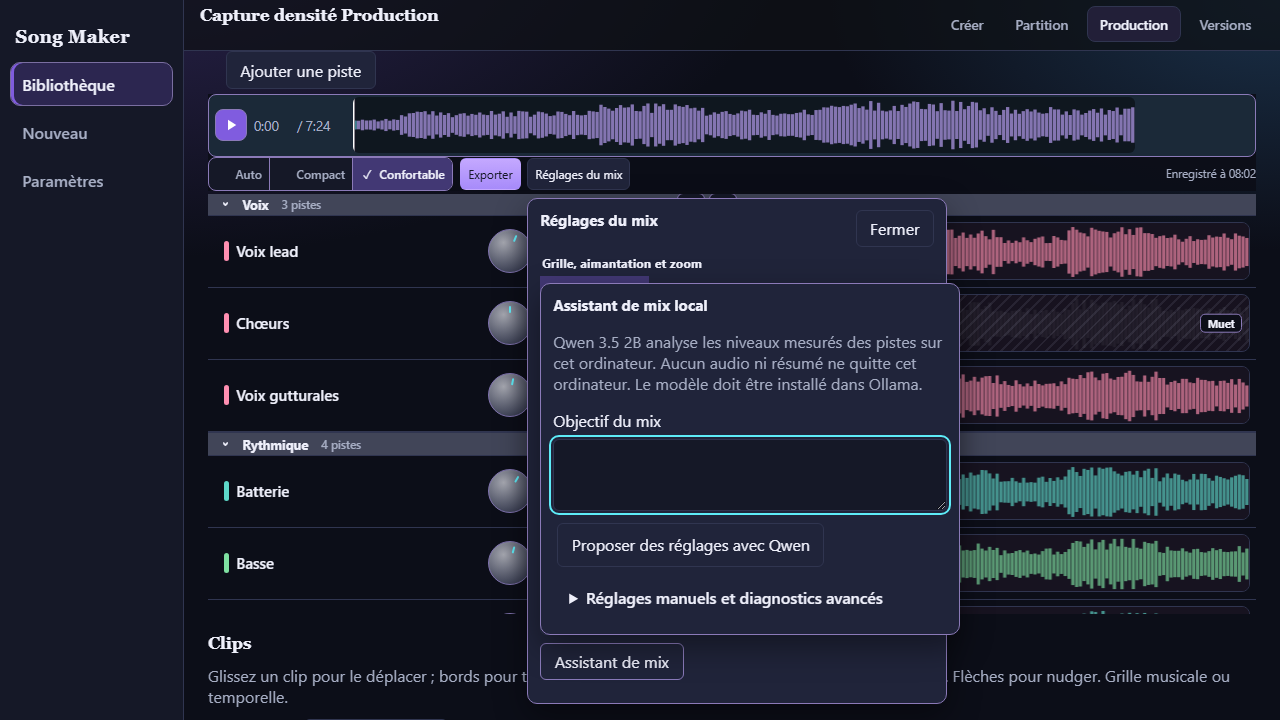
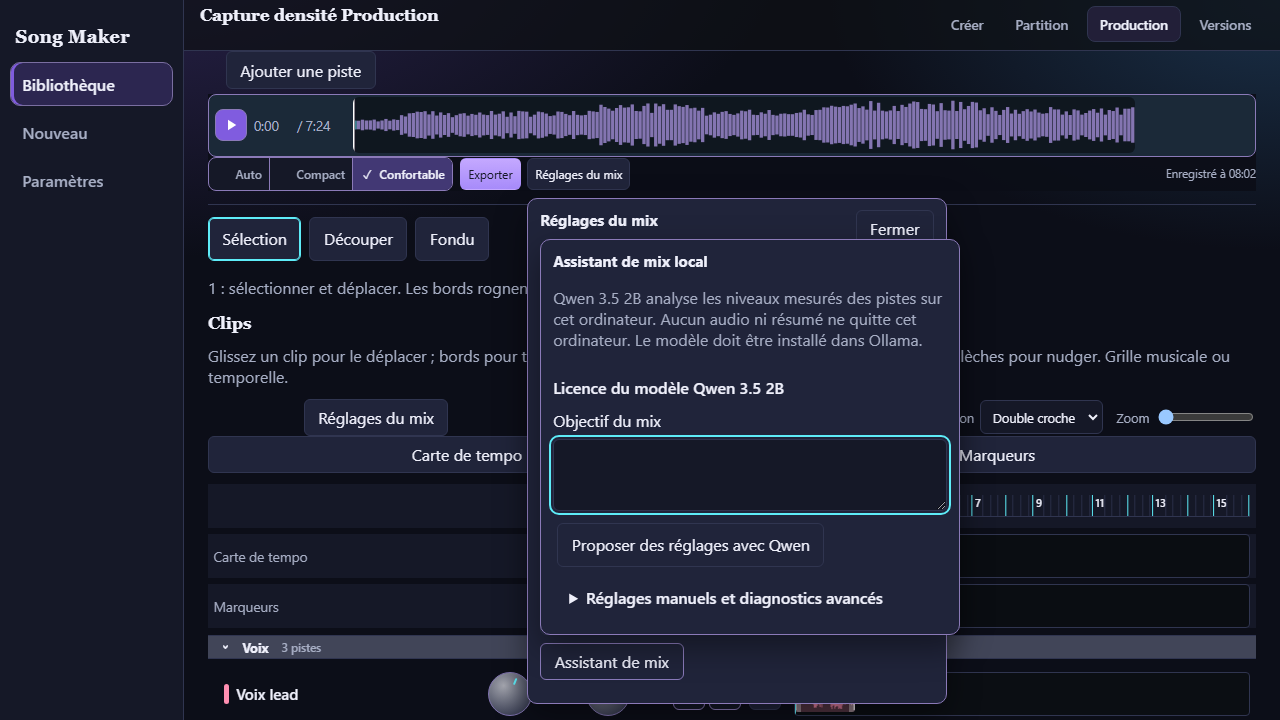
Document Qwen license and measured native assistant budget

diff --git a/src/dev/qwenMixAssistant.behavior.test.ts b/src/dev/qwenMixAssistant.behavior.test.ts
@@ -9,6 +9,26 @@ wav.write("RIFF",0);wav.writeUInt32LE(wav.length-8,4);wav.write("WAVEfmt ",8);wa
 for(let i=0;i<480;i++)wav.writeInt16LE(Math.round(Math.sin(i/10)*1000),44+i*2);
 before(async()=>{server=await startCaptureViteServer(5231);browser=await chromium.launch();});
 after(async()=>{await browser?.close();if(server)await stopCaptureViteServer(server);});
+for (const locale of ["fr", "en"] as const) it(`missing Qwen model has a readable ${locale} state without changing the mix`,async()=>{
+ const page=await browser.newPage({viewport:{width:1280,height:830}});
+ try {
+  await page.route("**/dev/null/*.wav",route=>route.fulfill({status:200,contentType:"audio/wav",body:wav}));
+  await page.addInitScript(locale=>{
+   localStorage.setItem("song-maker.locale",locale);
+   (window as unknown as {__captureQwenMix:()=>never}).__captureQwenMix=()=>{throw new Error("MODEL_MISSING private diagnostic");};
+  },locale);
+  await page.goto("http://127.0.0.1:5231/production-capture.html#confortable-12",{waitUntil:"networkidle"});
+  const gain=page.locator(".track-gain-knob .mix-knob-value").first();
+  const initial=await gain.innerText();
+  await page.getByTestId("production-mix-settings-trigger").click();
+  await page.getByRole("button",{name:locale==="fr"?"Assistant de mix":"Mix assistant",exact:true}).click();
+  const panel=page.locator(".qwen-mix-assistant");
+  await panel.getByRole("button",{name:locale==="fr"?"Proposer des réglages avec Qwen":"Propose settings with Qwen",exact:true}).click();
+  await panel.getByText(locale==="fr"?"Le modèle Qwen 3.5 2B est absent. Installez qwen3.5:2b dans Ollama puis relancez.":"Qwen 3.5 2B is missing. Install qwen3.5:2b in Ollama and try again.",{exact:true}).waitFor();
+  assert.equal(await gain.innerText(),initial);
+  assert.doesNotMatch(await panel.innerText(),/MODEL_MISSING|private diagnostic|qwen\.mix\./);
+ } finally {await page.close();}
+});
 it("Qwen settings require confirmation and can be undone; manual functions remain",async()=>{
  const page=await browser.newPage({viewport:{width:1280,height:830}});
  try {
@@ -33,6 +53,11 @@ it("Qwen settings require confirmation and can be undone; manual functions remai
   assert.equal(await page.getByRole("menuitem").count(),0);
   const panel=page.locator(".qwen-mix-assistant");
   await panel.waitFor();
+  const license=panel.locator(".qwen-mix-license");
+  await license.locator("summary").click();
+  assert.match(await license.locator("pre").innerText(),/Copyright 2026 Alibaba Cloud/);
+  assert.match(await license.locator("pre").innerText(),/Apache License/);
+  await license.locator("summary").click();
   await page.waitForTimeout(250);
   const initialVisibility=await page.locator(".mix-assist-popin").evaluate(el=>{
     const title=el.querySelector("h3")!.getBoundingClientRect();
@@ -75,7 +100,7 @@ it("invalid local answers leave gains unchanged and disclose only a closed diagn
   await panel.getByText("The model returned invalid settings. No settings were applied.",{exact:true}).waitFor();
   assert.equal(await gain.innerText(),before);
   assert.equal(await panel.getByRole("button",{name:"Review and apply",exact:true}).count(),0);
-  const detail=panel.locator("details");
+  const detail=panel.locator("details").filter({has:page.locator("code")});
   assert.equal(await detail.getAttribute("open"),null);
   assert.equal(await detail.locator("code").textContent(),"INVALID_RESPONSE:GAIN_DELTA");
   assert.equal((await panel.innerText()).includes("private model text"),false);

diff --git a/src/components/QwenMixAssistant.tsx b/src/components/QwenMixAssistant.tsx
@@ -7,6 +7,7 @@ import { getProductionOverlay, subscribeProduction } from "../lib/productionStat
 import { applyQwenAdjustments, proposeQwenMix, type QwenMixResponse } from "../lib/qwenMixAssistant";
 import type { MixDoc, PlaybackSources } from "../lib/types";
 import { profileLocale, t } from "../ui/i18n";
+import qwenLicense from "../../docs/model-licenses/Qwen3.5-2B-LICENSE.txt?raw";
 
 export function QwenMixAssistant({mix,sources,onCommitMix}: {
   mix: MixDoc; sources: PlaybackSources | null; onCommitMix: (mix:MixDoc)=>void;
@@ -51,6 +52,11 @@ export function QwenMixAssistant({mix,sources,onCommitMix}: {
   const nf=new Intl.NumberFormat(profileLocale(),{maximumFractionDigits:2});
   return <section className="qwen-mix-assistant" aria-label={t("qwen.mix.title")}>
     <p className="hint">{t("qwen.mix.local")}</p>
+    <details className="qwen-mix-license">
+      <summary>{t("qwen.mix.license")}</summary>
+      <p>{t("qwen.mix.licenseNotice")}</p>
+      <pre>{qwenLicense}</pre>
+    </details>
     <label>{t("qwen.mix.objective")}<textarea maxLength={1000} value={objective} onChange={e=>setObjective(e.target.value)} /></label>
     <button type="button" className="btn" disabled={busy||!hasStems} onClick={()=>void run()}>{t(busy?"qwen.mix.busy":"qwen.mix.analyze")}</button>
     {!hasStems && <p className="hint">{t("qwen.mix.needStems")}</p>}

diff --git a/src/App.css b/src/App.css
@@ -1282,6 +1282,8 @@ option {
 .production-auto-curve { width: 100%; height: 96px; background: #101523; touch-action: none; }
 .production-auto-curve polyline { fill: none; stroke: #5eecf8; stroke-width: 2px; vector-effect: non-scaling-stroke; }
 .production-auto-curve ellipse { fill: #eff0fb; }
+.qwen-mix-license > summary { min-height: 44px; display: flex; align-items: center; cursor: pointer; }
+.qwen-mix-license pre { white-space: pre-wrap; overflow-wrap: anywhere; font-size: 0.75rem; max-height: 16rem; overflow-y: auto; }
 .production-common-timeline {
   --production-controls-width: calc(264px + 10.5rem + 96px + 3.25rem);
 }

diff --git a/docs/design/qwen-mix-assistant/README.md b/docs/design/qwen-mix-assistant/README.md
@@ -1,17 +1,24 @@
 # Assistant de mix unique avec Qwen
 
-Choix utilisateur : un Qwen léger. Qwen 3.5 2B était déjà installé dans Ollama sur la machine ; aucun téléchargement ajouté. Un seul point d'entrée dans Réglages du mix. Les fonctions manuelles et les diagnostics de l'ancien Copilote restent accessibles dans un panneau repliable.
+Choix utilisateur : Qwen léger. Le modèle qwen3.5:2b était déjà installé dans Ollama ; aucun poids téléchargé pendant cette livraison. Un seul point d’entrée dans Réglages du mix. Les fonctions manuelles et diagnostics restent dans un panneau repliable.
 
-Le backend envoie uniquement noms/rôles/niveaux RMS et crêtes, gain/pan actuels et objectif à 127.0.0.1:11434. Aucun WAV n'est envoyé. Adresse fixe, proxy désactivé, redirections désactivées, modèle fixé, réponse JSON contrôlée. IDs inconnus/dupliqués, nombres non finis, gain hors [-60,+12] dB ou variation supérieure à 6 dB, pan hors [-1,+1] : rejet. Les propositions inchangées sont retirées. Aucun téléchargement automatique. États localisés si Ollama/modèle absent ou réponse invalide.
+Le backend envoie uniquement noms, rôles, niveaux RMS/crêtes, gain/pan et objectif à 127.0.0.1:11434. Aucun WAV envoyé. Adresse fixe, proxy et redirections désactivés. Réponse JSON contrôlée : IDs inconnus/dupliqués, nombres non finis, gain hors [-60,+12] dB, variation supérieure à 6 dB ou pan hors [-1,+1] rejetés. Les propositions inchangées sont retirées. Aucun téléchargement automatique.
 
-Les réglages restent des propositions. L'utilisateur doit examiner puis confirmer ; un bouton restaure gain/pan après application. Le fingerprint du mix et de son overlay interdit l'application d'une analyse périmée. Les autres données de piste sont conservées à l'annulation.
+Les réglages demandent examen puis confirmation ; une action annule gain/pan. Le fingerprint du mix et de son overlay bloque une proposition périmée. L’annulation conserve les autres données de piste.
 
-Validation séparée :
-- Vrai appel Rust vers Ollama/Qwen sur 2 résumés synthétiques : réponse JSON valide en 44 467 ms, proposition identique au réglage courant (filtrée comme sans effet). Cette mesure ne démontre pas la qualité des conseils ni la latence sur un projet réel.
-- Test d'interface Chromium avec WAV synthétiques et réponse de modèle simulée : aucune application avant confirmation, application puis annulation, fonctions manuelles disponibles.
-- Tests TypeScript/Rust : réponses invalides et parité FR/EN ; compilation et Clippy réussis.
-- Captures Chromium Windows du composant React à 1280×720/640×720 dans captures/. Aucune interaction native Tauri ni écoute A/B avec stems réels revendiquée.
+## Licence et notices
 
-Sources du transport et du modèle : https://docs.ollama.com/api/chat et https://ollama.com/library/qwen3.5:2b .
+[Note et sources épinglées](../../model-licenses/README.md) : Apache-2.0, Copyright 2026 Alibaba Cloud. La copie officielle complète est disponible dans l’assistant hors ligne et référencée dans NOTICE. Les poids sont installés séparément dans Ollama.
 
-#235 reste ouvert pour le test natif complet, le premier benchmark sur un vrai projet et l'évaluation des propositions. Aucun seuil de performance inventé.
+## Preuves distinctes
+
+- Tauri Windows, vrai projet de sept pistes, 6:54 : proposition, examen sans écriture, confirmation persistée puis annulation en une action. Le JSON retrouve exactement son SHA-256 initial. Voir [audit natif](../../maintenance/native-audit-2026-10-01/README.md).
+- Première analyse complète après relance : 14,3 s, dont 6,71 s pour le modèle. Deuxième mesure à froid, modèle absent de /api/ps avant clic : 13,17 s, dont 6,8 s pour Qwen. Aucun réglage appliqué pendant cette deuxième mesure ; hash du mix inchangé.
+- Tests React Chromium : confirmation/annulation, notices hors ligne, modèle absent FR/EN sans diagnostic brut, conservation des gains en cas de réponse invalide. Tests TypeScript/Rust : contrat, bornes et parité linguistique.
+- La mesure synthétique ancienne de 44 467 ms ne représente pas un projet réel. Les captures Chromium restent distinctes des captures natives.
+
+## Budget initial après mesure
+
+Sur la machine de référence Windows / RTX 4080 SUPER, pour le même projet de sept pistes de 6:54 et le même modèle Q8_0, le seuil de surveillance de régression est fixé à **28,6 s pour l’analyse complète** : deux fois la première mesure native complète de 14,3 s. Le facteur deux ménage la variabilité du chargement à froid ; c’est une règle de surveillance explicite, pas une promesse sur d’autres configurations. La mesure suivante de 13,17 s reste sous ce seuil. Un dépassement doit être consigné avec état du modèle, durée/nombre de pistes et matériel avant changement du seuil. Le timeout de transport de 120 s est une borne d’erreur distincte et préexistante.
+
+L’écoute comparative n’a pas été effectuée ; la validité des réglages ne démontre pas une amélioration musicale. Les lecteurs d’écran, le tactile et les autres systèmes ne sont pas validés par cet audit.

diff --git a/docs/maintenance/native-audit-2026-10-01/README.md b/docs/maintenance/native-audit-2026-10-01/README.md
@@ -46,3 +46,9 @@ Le chevauchement des numéros de mesures sur les morceaux longs a été observé
 - `shared-axis-native-after.jpg` : règle lisible, clip réel et courbe vide sous sa piste sur le même axe.
 
 L'alignement à 1 px et le maintien vertical des trois lignes pendant le défilement sont mesurés par les tests React à 1280×720 et 640×720, distincts de l'inspection native. Les tests vérifient aussi le changement de gain au clavier sans déplacer le clip sélectionné. La séquence native ne prouve pas l'édition de points ni la qualité audio. L'écoute comparative et les autres systèmes d'exploitation restent non testés.
+
+## Nouvelle mesure Qwen à froid et budget de surveillance
+
+Le modèle était absent de `/api/ps` avant le clic natif « Proposer des réglages avec Qwen ». La proposition s’est affichée avec **6,8 s** de réponse modèle et **13,17 s** d’analyse complète, lecture des pistes comprise. Aucun réglage n’a été appliqué ; le SHA-256 du mix est resté identique. La licence Qwen est disponible dans un panneau repliable hors ligne.
+
+Après la première mesure complète de 14,3 s, le budget de surveillance initial est fixé à **28,6 s**, deux fois cette référence, pour ce même projet, modèle et matériel. La seconde mesure reste sous ce seuil. Ce budget sert à signaler une régression lors des audits suivants ; il ne constitue pas une limite portable ni le timeout de transport.

diff --git a/docs/model-licenses/README.md b/docs/model-licenses/README.md
@@ -1,0 +1,9 @@
+# Modèle optionnel de l'assistant de mix
+
[1 lines of base64/hex data omitted]
+
+Sources : [fiche Ollama](https://ollama.com/library/qwen3.5:2b), [licence amont Qwen](https://huggingface.co/Qwen/Qwen3.5-2B/blob/15852e8c16360a2fea060d615a32b45270f8a8fc/LICENSE). Révision de la source vérifiée : `15852e8c16360a2fea060d615a32b45270f8a8fc`.
+
[1 lines of base64/hex data omitted]
+
+Apache-2.0 accorde les droits d'utilisation et de redistribution, y compris pour un usage commercial, sous ses conditions : conserver la licence et les mentions applicables, signaler les modifications des fichiers concernés et conserver un éventuel NOTICE amont. Song Maker embarque la notice et le texte de licence pour consultation hors ligne dans l'assistant ; les poids restent installés séparément dans Ollama. Cette notice concerne le modèle Qwen.
